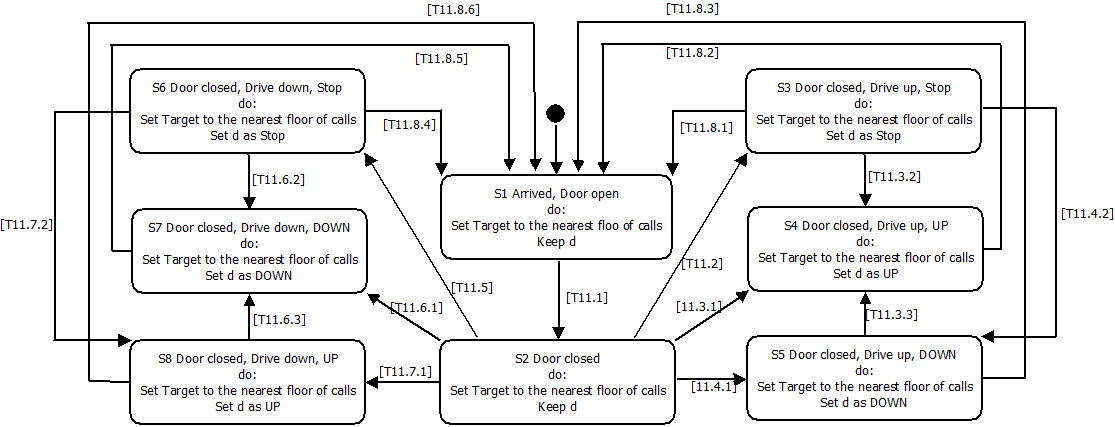
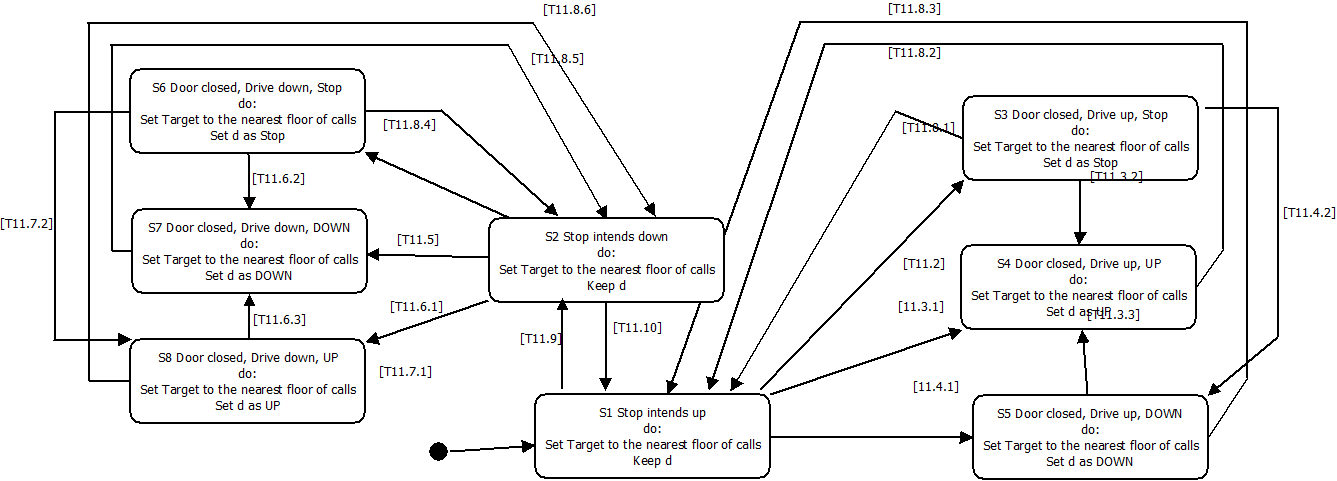
update dispatcher statecharts and guard conditions

diff --git a/reqs/requirements2.html b/reqs/requirements2.html
@@ -4516,8 +4516,8 @@
       &nbsp;&nbsp;&nbsp; 11.22.3 mDesiredFloor.d shall be set to Stop.</span><br>
     <h3>TIME-TRIGGERED STATECHART:</h3>
     &nbsp; <img alt=""
-      src="Dispatcher_statecharts_group9_yujiaw_new.png" height="427"
-      width="1115"><br>
+      src="Dispatcher_statecharts_group9_yujiaw_new.png" height="481"
+      width="1337"><br>
     <br>
     <table border="1" cellpadding="2" cellspacing="2">
       <tbody>
@@ -4528,17 +4528,17 @@
           </td>
         </tr>
         <tr>
-          <td valign="top">T11.1<br>
+          <td valign="top">T11.1.*<br>
           </td>
-          <td valign="top">All mDoorClosed[b, r] &#8592; true<br>
-          </td>
+          <td valign="top">any mDoorClosed[b, r] &#8592; false AND all
+            mAtFloor[f, b] &#8592; false </td>
         </tr>
         <tr>
           <td valign="top">T11.2<br>
           </td>
           <td valign="top">CurrentDirection &#8592; UP AND&nbsp; mCarCall[f,
-            b] &#8592; true AND f &gt;= CurrentFloor AND all other mCarCall &#8592;
-            false <br>
+            b] &#8592; true AND f &gt;= CurrentFloor AND all other mCarCall
+            and mHallCall &#8592; false <br>
           </td>
         </tr>
         <tr>
@@ -4569,7 +4569,8 @@
           <td valign="top">T11.5<br>
           </td>
           <td valign="top">CurrentDirection &#8592; DOWN AND mCarCall[f, b] &#8592;
-            true AND f &lt;= CurrentFloor AND all other mCarCall &#8592; false</td>
+            true AND f &lt;= CurrentFloor AND all other mCarCall and
+            mHallCall &#8592; false</td>
         </tr>
         <tr>
           <td valign="top">T11.6.*<br>
@@ -4598,6 +4599,21 @@
           </td>
           <td valign="top">mDriveSpeed &#8592; (0, STOP) AND any
             mDoorClosed[b,r] &#8592; false<br>
+          </td>
+        </tr>
+        <tr>
+          <td valign="top">T11.9<br>
+          </td>
+          <td valign="top">All mCarCall and mHallCall above or equal
+            CurrentFloor &#8592; false AND at least one mCarCall or mHallCall
+            below CurrentFloor &#8592; true<br>
+          </td>
+        </tr>
+        <tr>
+          <td valign="top">T11.10<br>
+          </td>
+          <td valign="top">All mCarCall and mHallCall below CurrentFloor
+            &#8592; false<br>
           </td>
         </tr>
       </tbody>
